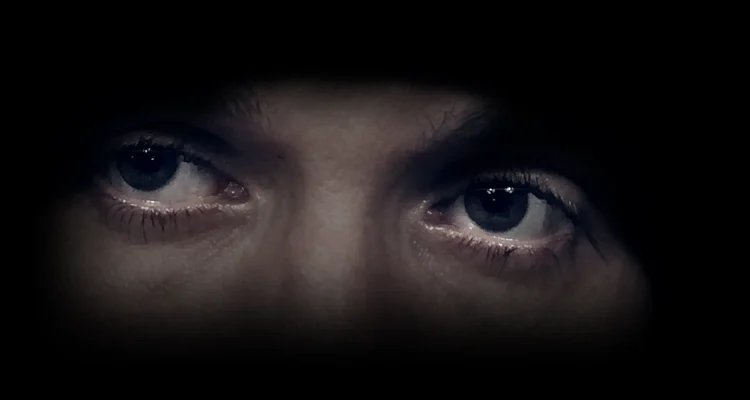
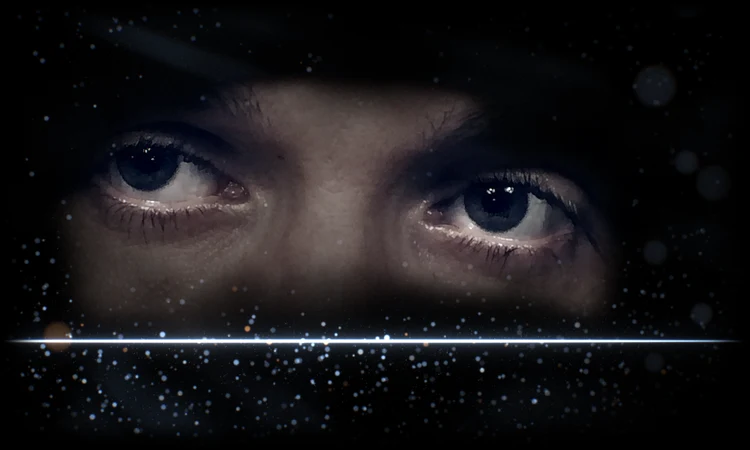
Ship v8 eyes art

diff --git a/style.css b/style.css
@@ -7,9 +7,9 @@ a{color:var(--acc);text-underline-offset:3px}
 :focus-visible{outline:2px solid var(--acc);outline-offset:3px;border-radius:2px}
 main{max-width:34rem;margin:0 auto}
 .hero{padding-top:env(safe-area-inset-top);margin-top:clamp(0px,4vh,32px)}
-.eyes{display:block;width:100%;height:auto;aspect-ratio:15/8;background:#000}
-.line{height:1px;width:86%;margin:-.6rem auto 0;background:linear-gradient(90deg,transparent,var(--acc),transparent);opacity:.7}
-.wm{line-height:0;margin:2.1rem 0 0;font-size:0}
+.eyes{display:block;width:100%;height:auto;aspect-ratio:5/3;background:#000}
+.line{display:none}
+.wm{line-height:0;margin:.2rem 0 0;font-size:0}
 .wm img{display:block;margin:0 auto;width:min(66%,16.5rem);height:auto}
 .act{padding:2.4rem max(16px,env(safe-area-inset-right)) 0 max(16px,env(safe-area-inset-left))}
 .go{display:flex;align-items:center;justify-content:center;width:100%;min-height:6.5rem;border:0;border-radius:2px;background:var(--ink);color:#000;padding:1rem;cursor:pointer;text-align:center}

diff --git a/index.html b/index.html
@@ -31,7 +31,7 @@
 <body>
 <main>
 <header class="hero">
-<picture><source type="image/webp" srcset="img/eyes-750.webp 750w, img/eyes-1500.webp 1500w" sizes="(min-width: 34rem) 34rem, 100vw"><img class="eyes" src="img/eyes-1500.jpg" srcset="img/eyes-750.jpg 750w, img/eyes-1500.jpg 1500w" sizes="(min-width: 34rem) 34rem, 100vw" width="1500" height="800" alt="A pair of calm eyes in the dark." fetchpriority="high"></picture>
+<picture><source type="image/webp" srcset="img/eyes-750.webp 750w, img/eyes-1500.webp 1500w" sizes="(min-width: 34rem) 34rem, 100vw"><img class="eyes" src="img/eyes-1500.jpg" srcset="img/eyes-750.jpg 750w, img/eyes-1500.jpg 1500w" sizes="(min-width: 34rem) 34rem, 100vw" width="1500" height="900" alt="A pair of calm eyes in the dark." fetchpriority="high"></picture>
 <div class="line" aria-hidden="true"></div>
 <h1 class="wm"><img src="wordmark.svg" width="260" height="50" alt="Stark"></h1>
 </header>
